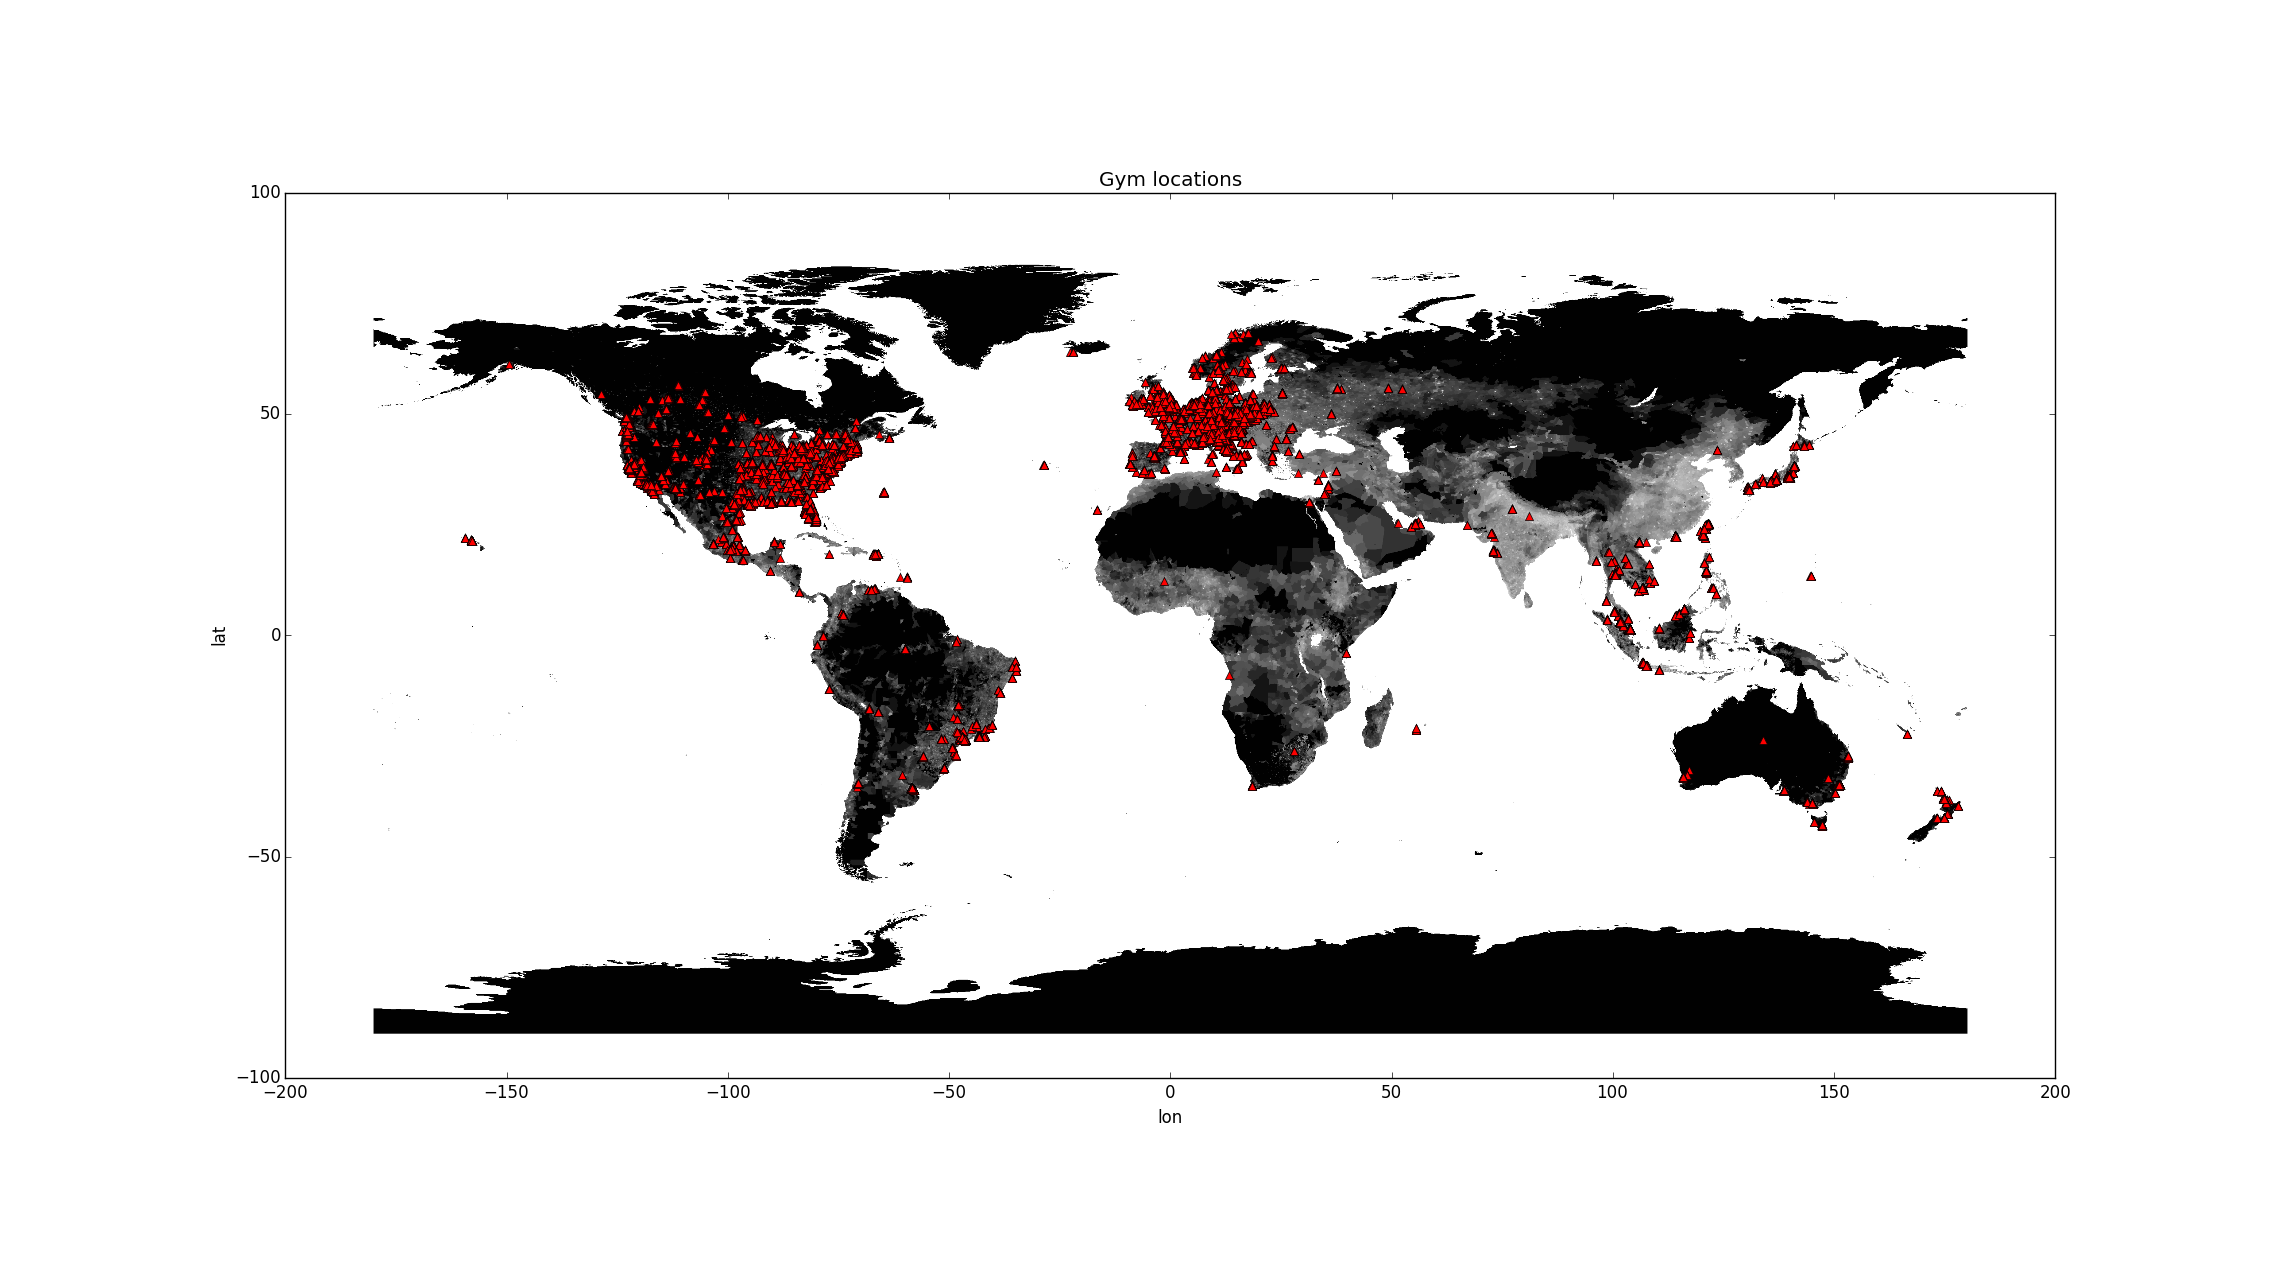
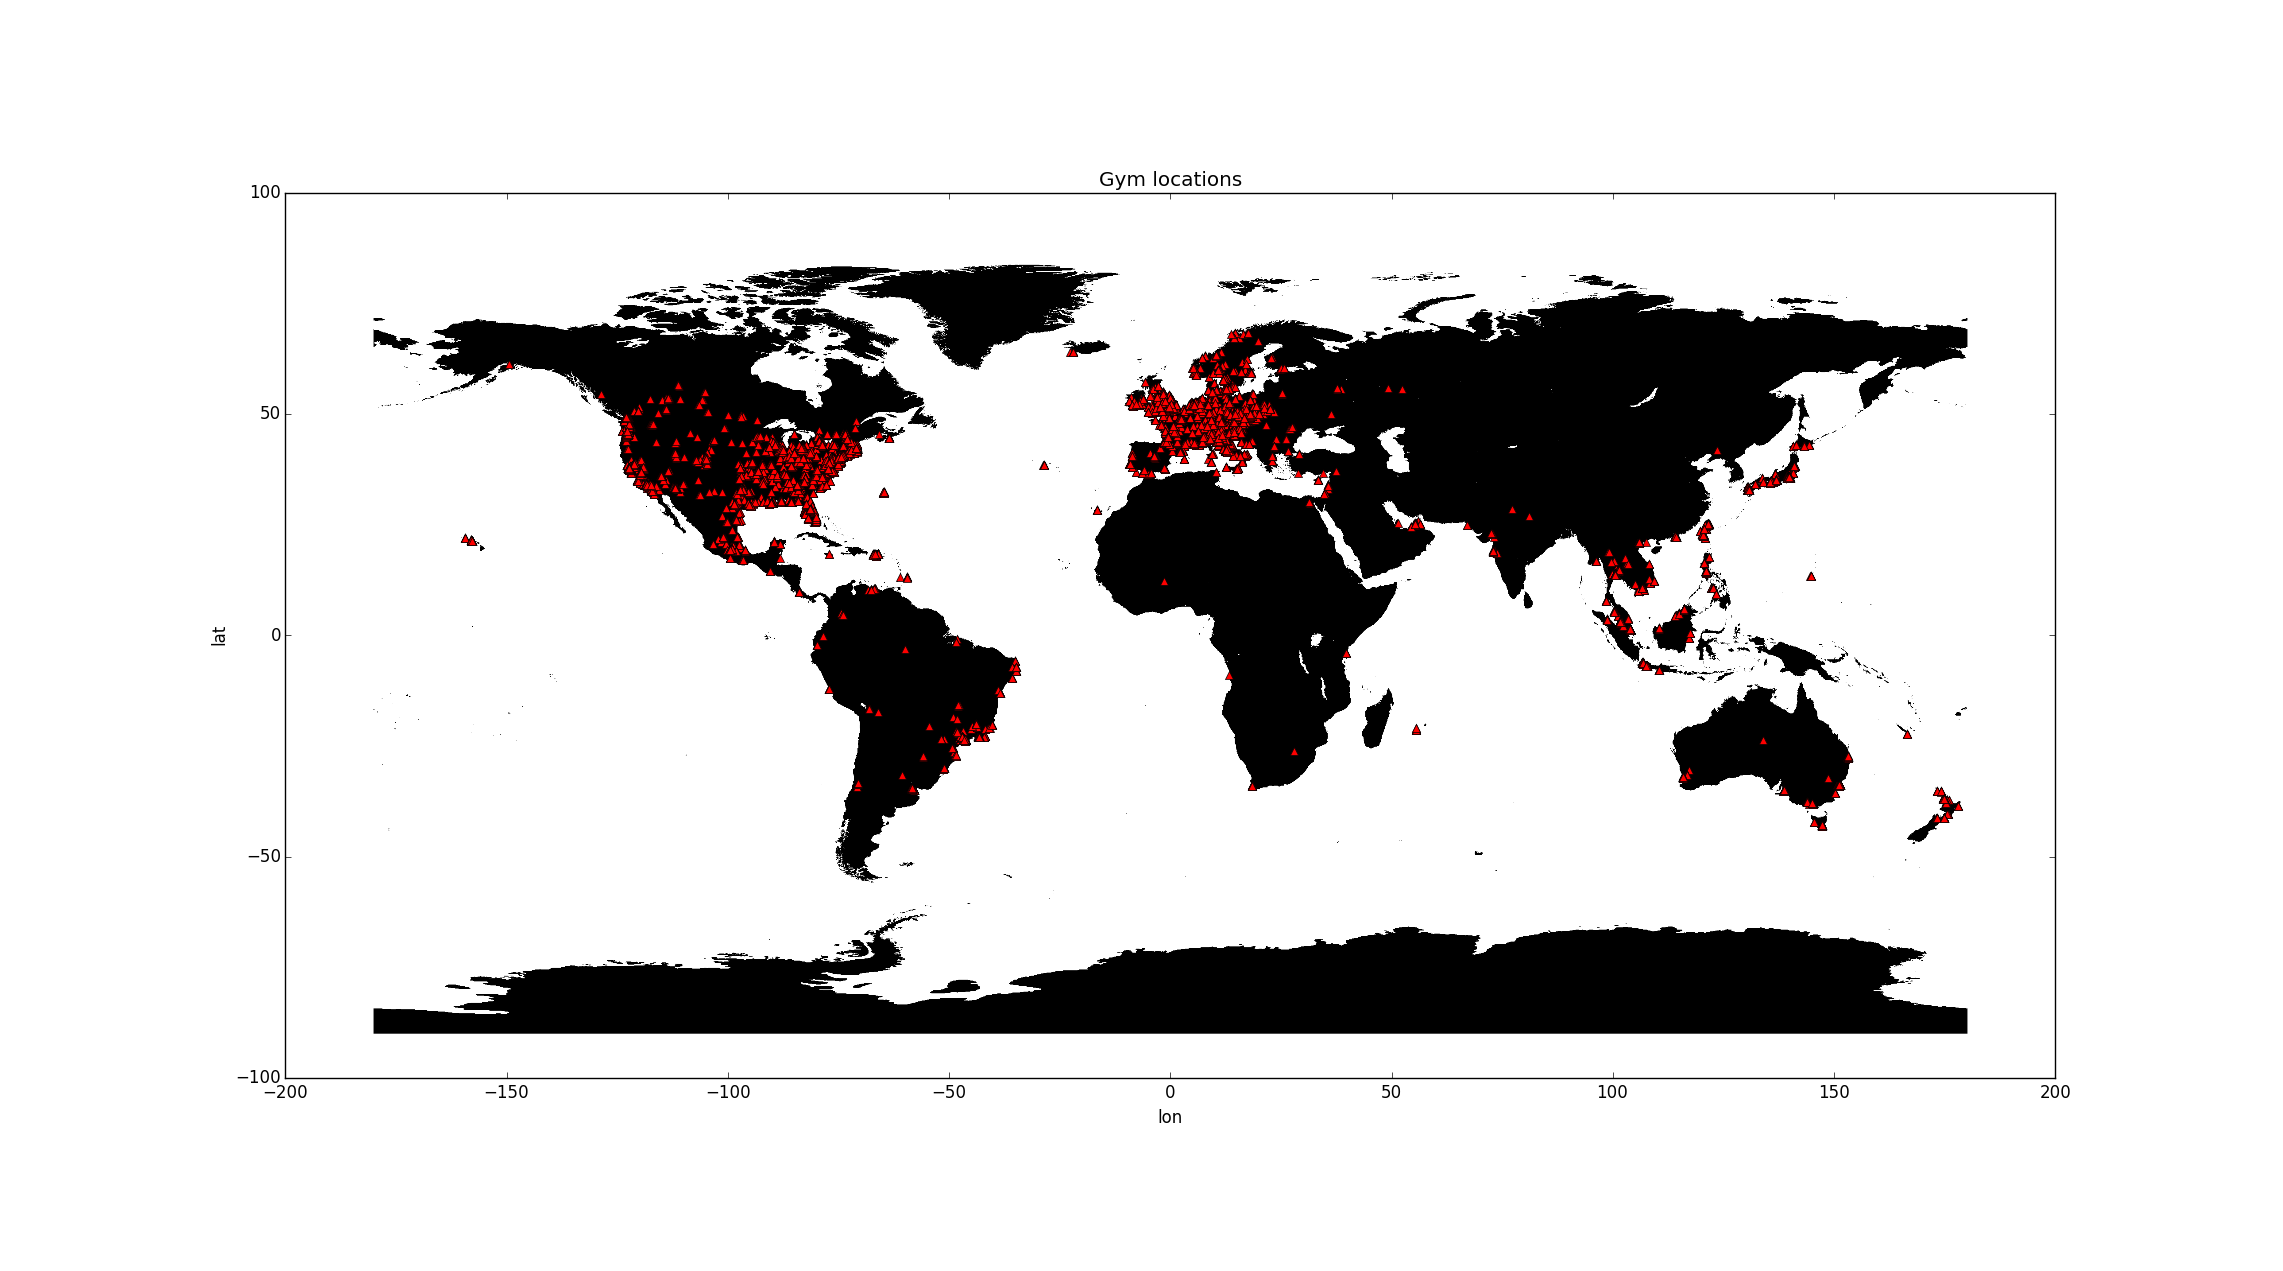
update location plots

Changed region(s): [[0.4665, 0.2762, 0.8086, 0.6137], [0.2799, 0.3375, 0.4665, 0.6444]]

diff --git a/data_analysis/plot_coordinates.py b/data_analysis/plot_coordinates.py
@@ -12,8 +12,8 @@ def plot(lats, lons, title):
     plt.show()
 
 #filename = 'pokestops.json'
-filename = '../json/pokeDump_2.json'
-plotname = 'Pokemon in data dump'
+filename = '../json/pokestops.json'
+plotname = 'Pokestop'
 
 def extract_latlon(coordiantes):
     lats = [c['latitude'] for c in coordiantes]
